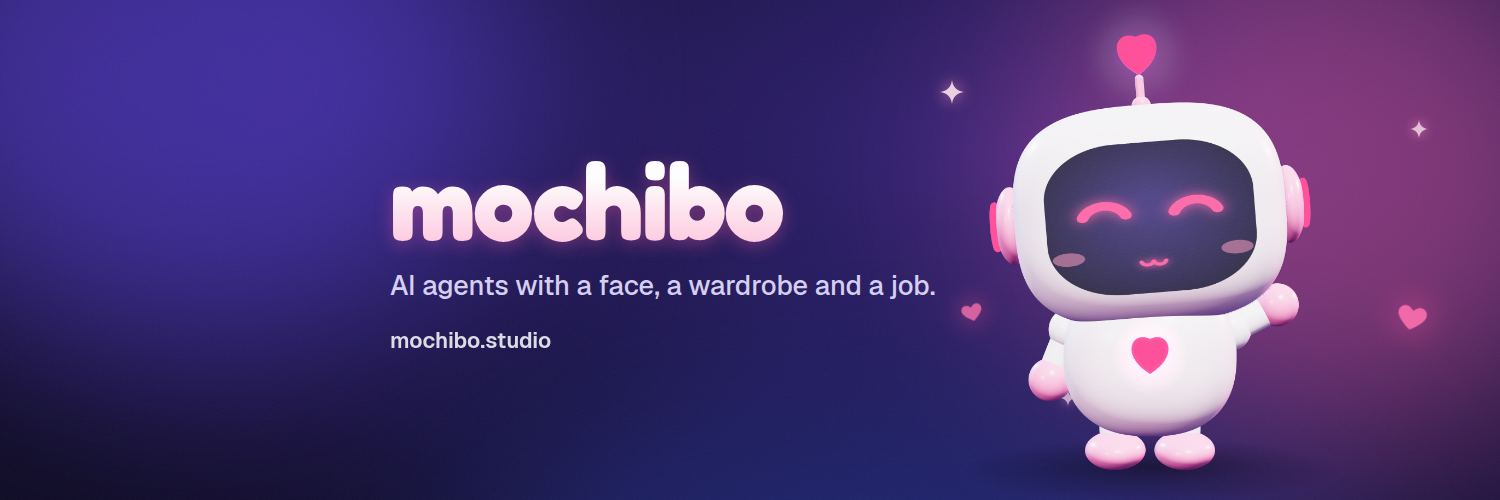
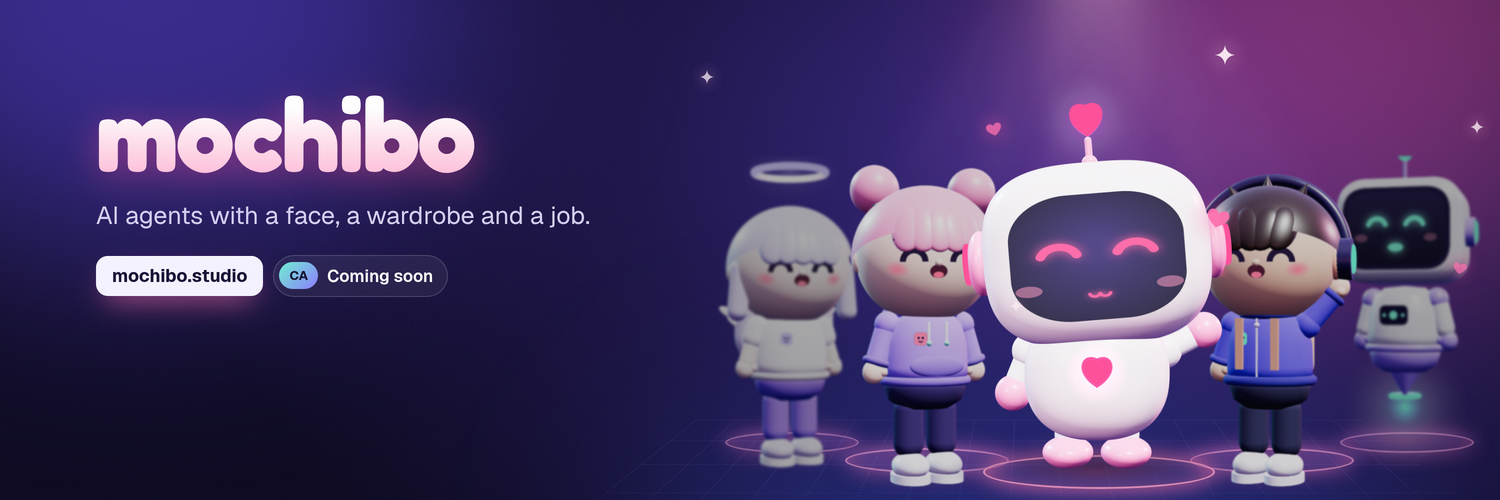
X link, CA coming soon badge and a new X header
- Nav X button and footer/FAQ links to x.com/mochibostudio (SOCIAL in config)
- Hero contract address pill: "Coming soon" until NEXT_PUBLIC_TOKEN_ADDRESS is set, copies the address after
- New X header with the character lineup; lower-left kept clear for the profile photo

Claude-Session: https://claude.ai/code/session_014cCfamQfFaRCKQJ8Qw9cZQ

diff --git a/apps/web/components/ContractBadge.tsx b/apps/web/components/ContractBadge.tsx
@@ -1,0 +1,31 @@
+"use client";
+import { TOKEN_SYMBOL } from "@orbis/shared";
+import { PUBLIC_ENV } from "@/lib/env";
+import { shortAddress } from "@/lib/format";
+import { copyText } from "@/lib/hooks";
+import { useToast } from "@/lib/toast";
+import s from "./Hero.module.css";
+
+/** Token contract address pill. Shows "Coming soon" until NEXT_PUBLIC_TOKEN_ADDRESS is set. */
+export function ContractBadge() {
+  const toast = useToast();
+  const ca = PUBLIC_ENV.tokenAddress;
+  return (
+    <button
+      className={s.ca}
+      aria-label={ca ? `Copy ${TOKEN_SYMBOL} contract address` : `${TOKEN_SYMBOL} contract address coming soon`}
+      onClick={async () => {
+        if (!ca) return toast("Contract address coming soon");
+        await copyText(ca);
+        toast("Contract address copied");
+      }}
+    >
+      <span className={s.caLabel}>CA</span>
+      <code>{ca ? shortAddress(ca) : "Coming soon"}</code>
+      <svg width="14" height="14" viewBox="0 0 24 24" fill="none" stroke="currentColor" strokeWidth="2" aria-hidden="true">
+        <rect x="9" y="9" width="11" height="11" rx="2.5" />
+        <path d="M5 15V6a2 2 0 0 1 2-2h9" />
+      </svg>
+    </button>
+  );
+}

diff --git a/apps/web/components/Footer.tsx b/apps/web/components/Footer.tsx
@@ -1,10 +1,10 @@
-import { APP_NAME } from "@orbis/shared";
+import { APP_NAME, SOCIAL } from "@orbis/shared";
 import s from "./Footer.module.css";
 
 const COLS = [
   ["Product", [["#studio", "Studio"], ["#discover", "Discover"], ["#features", "Skills"], ["#rewards", "Rewards"]]],
   ["Learn", [["#faq", "FAQ"], ["#creators", "For creators"], ["#top", "Whitepaper"], ["#top", "Roadmap"]]],
-  ["Community", [["#top", "X"], ["#top", "Telegram"], ["#top", "GitHub"]]],
+  ["Community", [[SOCIAL.x, "X"], [SOCIAL.telegram || "#top", "Telegram"], ["#top", "GitHub"]]],
 ] as const;
 
 export function Footer() {
@@ -22,7 +22,7 @@ export function Footer() {
             <div key={h}>
               <h4>{h}</h4>
               {links.map(([href, label]) => (
-                <a key={label} href={href}>
+                <a key={label} href={href} {...(href.startsWith("http") ? { target: "_blank", rel: "noopener noreferrer" } : {})}>
                   {label}
                 </a>
               ))}

diff --git a/apps/web/components/Nav.tsx b/apps/web/components/Nav.tsx
@@ -1,6 +1,6 @@
 "use client";
 import { useEffect, useRef, useState } from "react";
-import { APP_NAME } from "@orbis/shared";
+import { APP_NAME, SOCIAL } from "@orbis/shared";
 import { PUBLIC_ENV } from "@/lib/env";
 import { fmt, shortAddress } from "@/lib/format";
 import { usePreview } from "@/lib/preview/store";
@@ -59,6 +59,11 @@ export function Nav() {
           ))}
         </div>
         <div className={s.right}>
+          <a className={s.social} href={SOCIAL.x} target="_blank" rel="noopener noreferrer" aria-label={`${APP_NAME} on X`}>
+            <svg width="16" height="16" viewBox="0 0 24 24" fill="currentColor" aria-hidden="true">
+              <path d="M17.75 3h3.07l-6.72 7.68L22 21h-6.19l-4.85-6.34L5.4 21H2.33l7.19-8.21L2 3h6.35l4.38 5.79L17.75 3Zm-1.08 16.17h1.7L7.4 4.74H5.58l11.09 14.43Z" />
+            </svg>
+          </a>
           <div className={s.credits} ref={wrapRef}>
             <button
               className={s.creditsBtn}

diff --git a/apps/web/components/Hero.module.css b/apps/web/components/Hero.module.css
@@ -64,6 +64,38 @@
 .head > *:nth-child(4) {
   animation-delay: 0.18s;
 }
+.head > *:nth-child(5) {
+  animation-delay: 0.24s;
+}
+.ca {
+  display: inline-flex;
+  align-items: center;
+  gap: 10px;
+  height: 36px;
+  margin-top: 18px;
+  padding: 0 12px 0 6px;
+  border-radius: 999px;
+  background: rgba(255, 255, 255, 0.04);
+  border: 1px solid var(--line2);
+  font-size: 13.5px;
+  color: var(--ink2);
+  transition: background 0.2s;
+}
+.ca:hover {
+  background: rgba(255, 255, 255, 0.08);
+}
+.caLabel {
+  font-weight: 700;
+  font-size: 12px;
+  color: #120e2b;
+  background: linear-gradient(135deg, var(--aqua), var(--violet));
+  padding: 3px 9px;
+  border-radius: 999px;
+}
+.ca code {
+  font: 600 13.5px var(--sans);
+  color: var(--ink);
+}
 .announce {
   display: inline-flex;
   align-items: center;

diff --git a/apps/web/components/Nav.module.css b/apps/web/components/Nav.module.css
@@ -49,6 +49,21 @@
   align-items: center;
   gap: 8px;
 }
+.social {
+  width: 40px;
+  height: 40px;
+  border-radius: 12px;
+  display: grid;
+  place-items: center;
+  border: 1px solid var(--line);
+  background: rgba(255, 255, 255, 0.03);
+  color: var(--ink2);
+  transition: color 0.2s, background 0.2s;
+}
+.social:hover {
+  color: var(--ink);
+  background: rgba(255, 255, 255, 0.07);
+}
 .credits {
   position: relative;
   display: flex;
@@ -112,6 +127,10 @@
 @media (max-width: 600px) {
   .creditsBtn {
     padding: 0 10px;
+  }
+  .social {
+    width: 36px;
+    height: 36px;
   }
   .walletLabel {
     display: none;

diff --git a/apps/web/components/Faq.tsx b/apps/web/components/Faq.tsx
@@ -1,3 +1,4 @@
+import { SOCIAL } from "@orbis/shared";
 import s from "./Faq.module.css";
 
 const QA = [
@@ -16,7 +17,13 @@ export function Faq() {
       <div className={`wrap ${s.faq}`}>
         <div className="head">
           <h2>Questions, answered.</h2>
-          <p>Anything else, ask us on X or Telegram.</p>
+          <p>
+            Anything else, ask us on{" "}
+            <a href={SOCIAL.x} target="_blank" rel="noopener noreferrer">
+              X
+            </a>{" "}
+            or Telegram.
+          </p>
         </div>
         <div>
           {QA.map(([q, a], i) => (

diff --git a/apps/web/components/Hero.tsx b/apps/web/components/Hero.tsx
@@ -6,6 +6,7 @@ import { HERO_TASKS, MARKET } from "@/lib/placeholder";
 import { portraitUrl } from "@/lib/images";
 import { isReducedMotion } from "@/lib/hooks";
 import { PowerDock } from "./PowerDock";
+import { ContractBadge } from "./ContractBadge";
 import { Metrics } from "./Metrics";
 import s from "./Hero.module.css";
 
@@ -66,6 +67,7 @@ export function Hero() {
             Explore agents
           </a>
         </div>
+        <ContractBadge />
       </div>
       <div className="wrap">
         <div className={`win ${s.win}`}>

diff --git a/packages/shared/src/config.ts b/packages/shared/src/config.ts
@@ -10,6 +10,12 @@ export const APP_DISPLAY_HOST = "mochibo.studio";
 /** Holder token symbol shown in Rewards. The final ticker is not decided yet. */
 export const TOKEN_SYMBOL = "MOCHIBO";
 
+/** Official social links. Empty means not live yet. */
+export const SOCIAL = {
+  x: "https://x.com/mochibostudio",
+  telegram: "",
+} as const;
+
 /** Credits are whole CR in config and UI, stored as centi-credits (1 CR = 100) in the DB. */
 export const CENTI_PER_CREDIT = 100;
 

diff --git a/brand/README.md b/brand/README.md
@@ -4,7 +4,7 @@
 | --- | --- |
 | `x-profile-1000.png` | X profile photo (main) |
 | `x-profile-wave-1000.png` | Alternative profile photo (waving) |
-| `x-header-1500x500.png` | X header banner. The left-bottom corner is kept clear for the profile photo. |
+| `x-header-1500x500.png`, `x-header-3000x1000.jpg` | X header banner. The lower-left corner is kept clear for the profile photo. |
 | `x-launch-banner-2400x1350.jpg` | Launch tweet image (premium version, 16:9) |
 | `x-first-tweet-1600x900.png` | Simpler launch tweet image |
 | `logo-lockup-dark.jpg`, `logo-lockup-transparent.png` | Mascot + "mochibo" wordmark |
